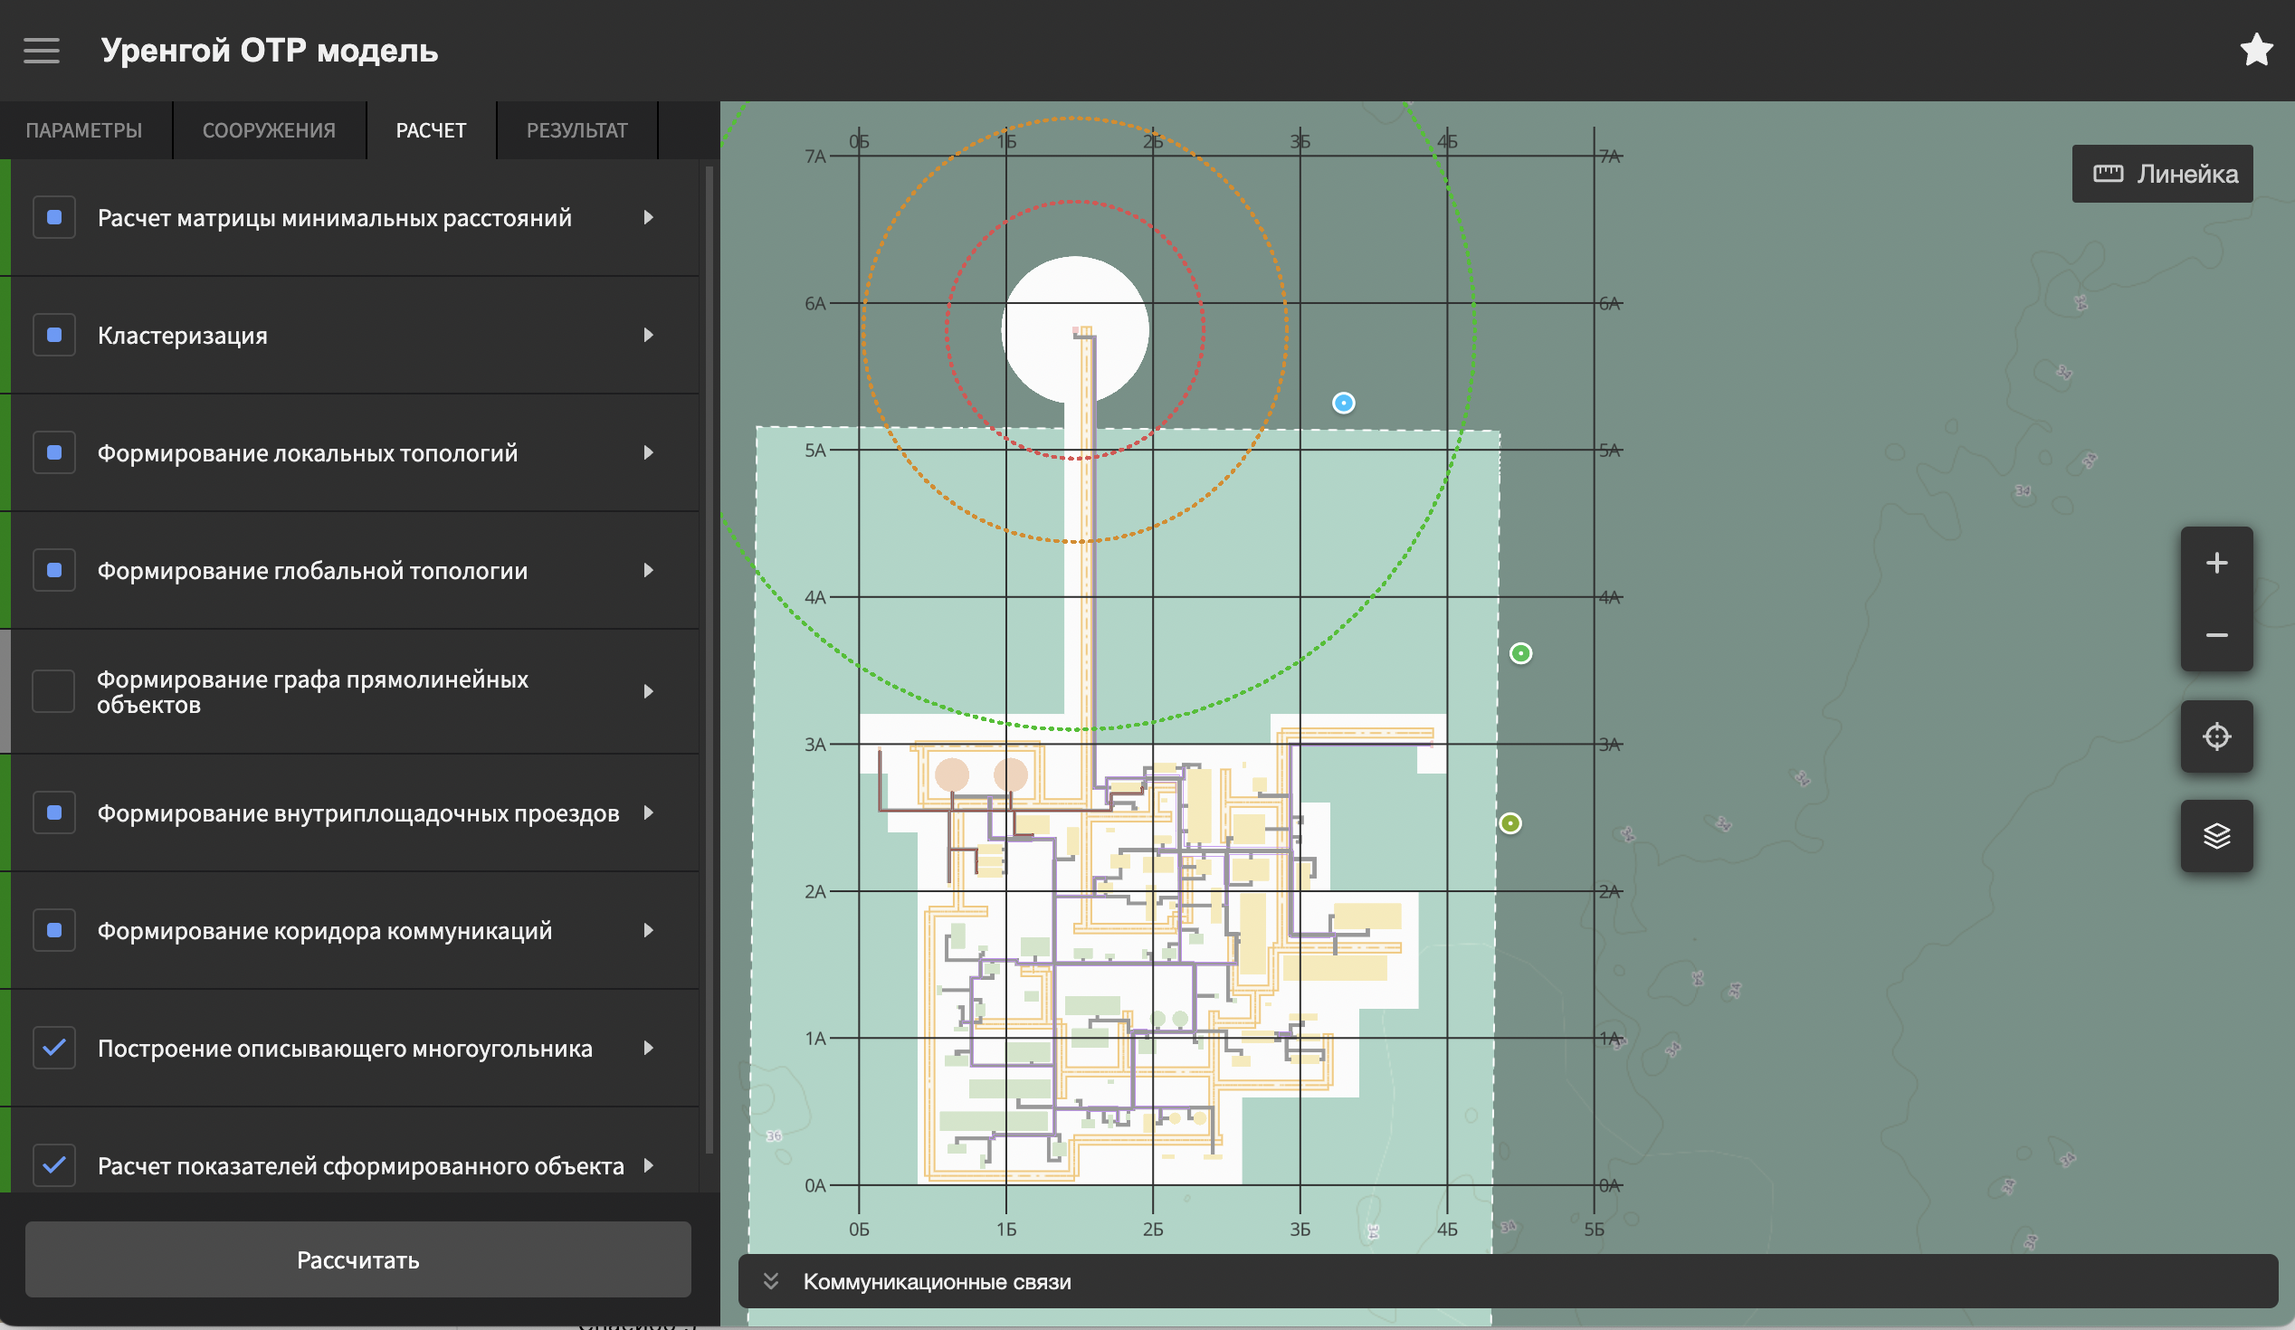
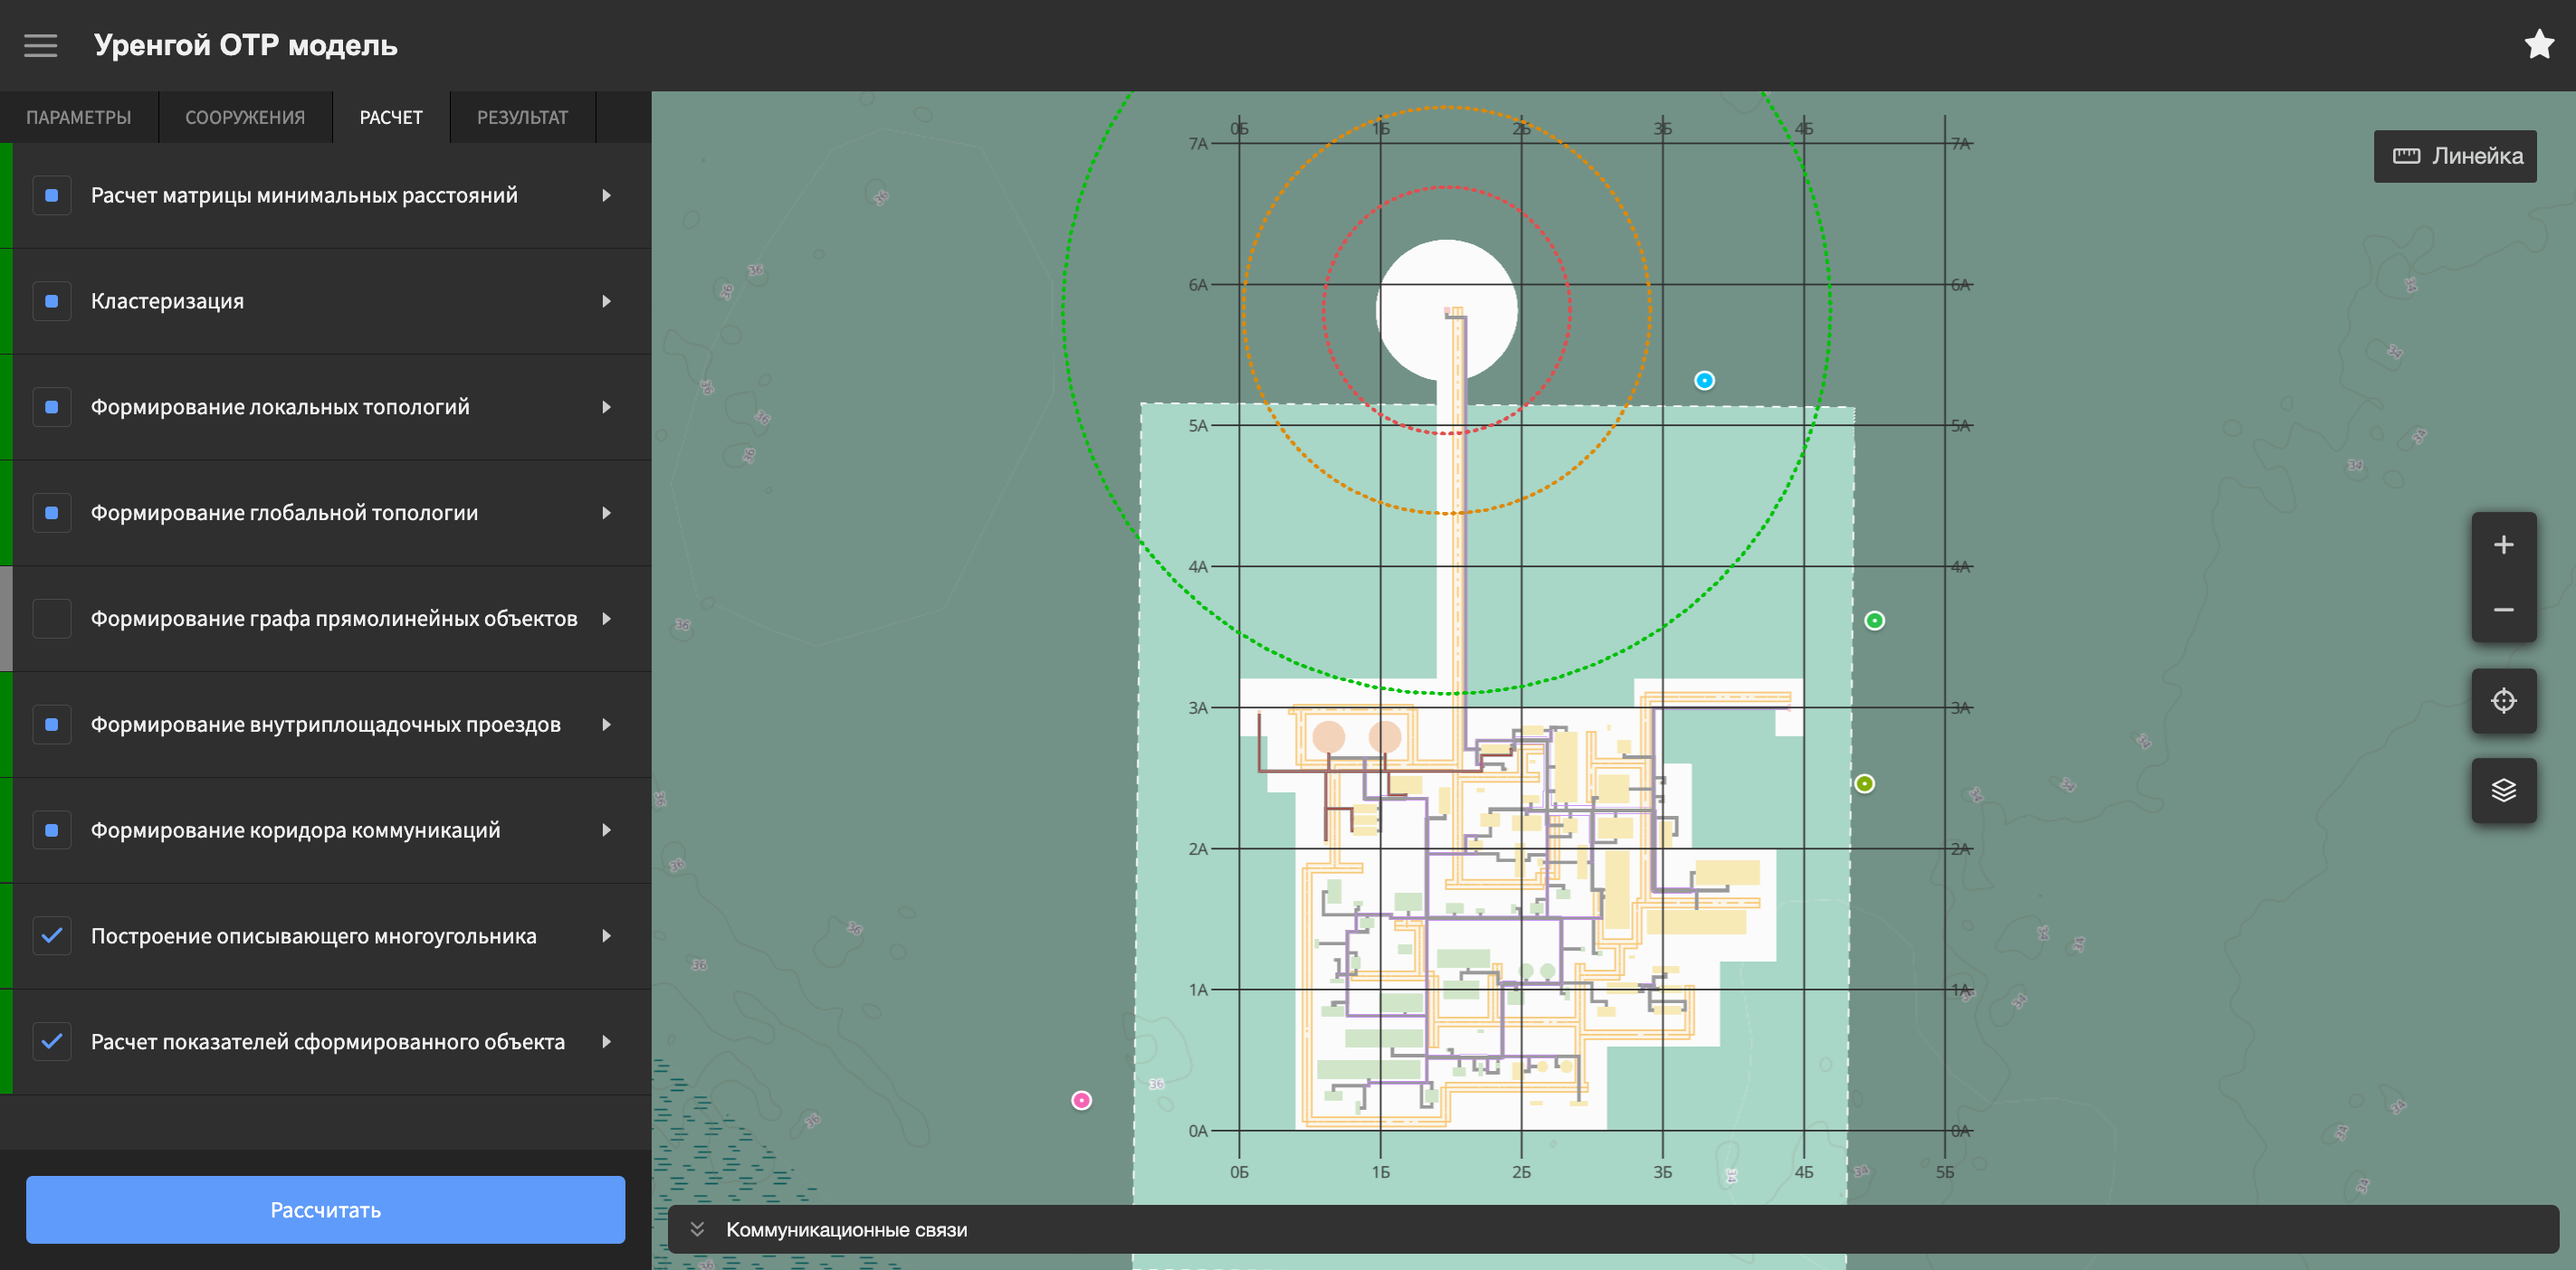
update presentation

diff --git a/master/sources/presentation/presentation.tex b/master/sources/presentation/presentation.tex
@@ -45,7 +45,6 @@
 % Этот текст можно заменить на другой, например:
 \setfootlinetext{\insertsection}
 
-
 \begin{document}
 
 \input{title.tex}
@@ -60,99 +59,8 @@
 
 \input{results.tex}
 
-\section{Second Section}
-
-\begin{frame}
-\frametitle{Blocks of Highlighted Text}
-\begin{block}{Regular Block}
-Lorem ipsum dolor sit amet, consectetur adipiscing elit. Integer lectus nisl, ultricies in feugiat rutrum, porttitor sit amet augue. Aliquam ut tortor mauris. Sed volutpat ante purus, quis accumsan dolor.
-\end{block}
-
-\begin{exampleblock}{Example Block}
-Pellentesque sed tellus purus. Class aptent taciti sociosqu ad litora torquent per conubia nostra, per inceptos himenaeos. Vestibulum quis magna at risus dictum tempor eu vitae velit.
-\end{exampleblock}
-
-\begin{alertblock}{Alert Block}
-Suspendisse tincidunt sagittis gravida. Curabitur condimentum, enim sed venenatis rutrum, ipsum neque consectetur orci, sed blandit justo nisi ac lacus.
-\end{alertblock}
-\end{frame}
-
-
-\begin{frame}
-\frametitle{Colors}
-
-You can use main official predefined colors
-\textcolor{ITMOblue}{ITMOblue} and \textcolor{ITMOred}{ITMOred}, and also
- \textcolor{ITMOorange}{ITMOorange}, \textcolor{ITMOsky}{ITMOsky}, \textcolor{ITMOpistachio}{ITMOpistachio}, \textcolor{ITMOaqua}{ITMOaqua}, \textcolor{ITMOice}{ITMOice}, \textcolor{ITMOgold}{ITMOgold}, \textcolor{ITMOyellow}{ITMOyellow}, \textcolor{ITMOtomato}{ITMOtomato}, \textcolor{ITMOgreen}{ITMOgreen}.
-
-\end{frame}
-
-
-
-\subsection{Using columns}
-
-
-\begin{frame}
-\frametitle{Multiple Columns}
-\begin{columns}[c]
-
-\column{.45\textwidth}{
-    \begin{enumerate}
-        \item First item
-        \item Second item
-        \item Third item
-    \end{enumerate}
-}
-
-\column{.45\textwidth}{
-    \begin{itemize}
-        \item Some item
-        \item Another item
-        \item Also item
-    \end{itemize}
-}
-
-\end{columns}
-\end{frame}
-
-
-
-\section{Other LaTex stuff}
-
-\subsection{Tables}
-
-
-\begin{frame}
-\frametitle{Table}
-
-% Лучше не использовать table в презентациях, только tabular. А описание таблиц делать руками.
-
-\begin{table}
-\caption{Multiplication table of complex numbers}
-\begin{tabular}{r | r r r r r}
-$a \times b$ & $0$ &  $1$ &  $i$ & $-1$ & $-i$ \\ \hline
-         $0$ & $0$ &  $0$ &  $0$ &  $0$ &  $0$ \\
-         $1$ & $0$ &  $1$ &  $i$ & $-1$ & $-i$ \\
-         $i$ & $0$ &  $i$ & $-1$ & $-i$ &  $1$ \\
-        $-1$ & $0$ & $-1$ & $-i$ &  $1$ &  $i$ \\
-        $-i$ & $0$ & $-i$ &  $1$ &  $i$ & $-1$ \\
-\end{tabular}
-\end{table}
-\end{frame}
-
-
-\subsection{Theorems and Equations}
-
-
-\begin{frame}
-\frametitle{Theorem}
-\begin{theorem}[Fermat's Last Theorem]
-\begin{equation}
-    \forall n, x, y, z \in \mathbb{N}: \mathbf{n > 2} \Rightarrow x^n + y^n \neq z^n
-\end{equation}
-\end{theorem}
-I have discovered a truly remarkable proof of this theorem which this frame is too small to contain.
-\end{frame}
-
 \input{end.tex}
+
+%\input{samples.tex}
+
 \end{document}

diff --git a/master/sources/presentation/speech.tex b/master/sources/presentation/speech.tex
@@ -11,8 +11,7 @@
 % Document
 \begin{document}
 
-
-\paragraph{Титульный слайд}.
+1. ~ 16 сек
 
 Здравствуйте, уважаемая комиссия!
 
@@ -22,7 +21,7 @@
 генеральных планов площадных объектов капитального строительства.
 
 
-\paragraph{Введение}.
+2.
 
 \textit{Генеральный план (генплан, ГП)} в общем смысле —
 проектный документ, на основании которого осуществляется планировка,
@@ -36,6 +35,7 @@
 а также инженеры-проектировщики, которые в них работают.
 
 
+3.
 
 
 \paragraph{Цель работы}.

diff --git a/master/sources/presentation/results.tex b/master/sources/presentation/results.tex
@@ -3,7 +3,7 @@
 \begin{frame}
 \frametitle{Интерфейс системы}
 \begin{figure}
-    \includegraphics[scale=.27]{pictures/results/plan-system}
+    \includegraphics[scale=0.1391]{pictures/results/plan-system}
 \end{figure}
 \end{frame}
 
